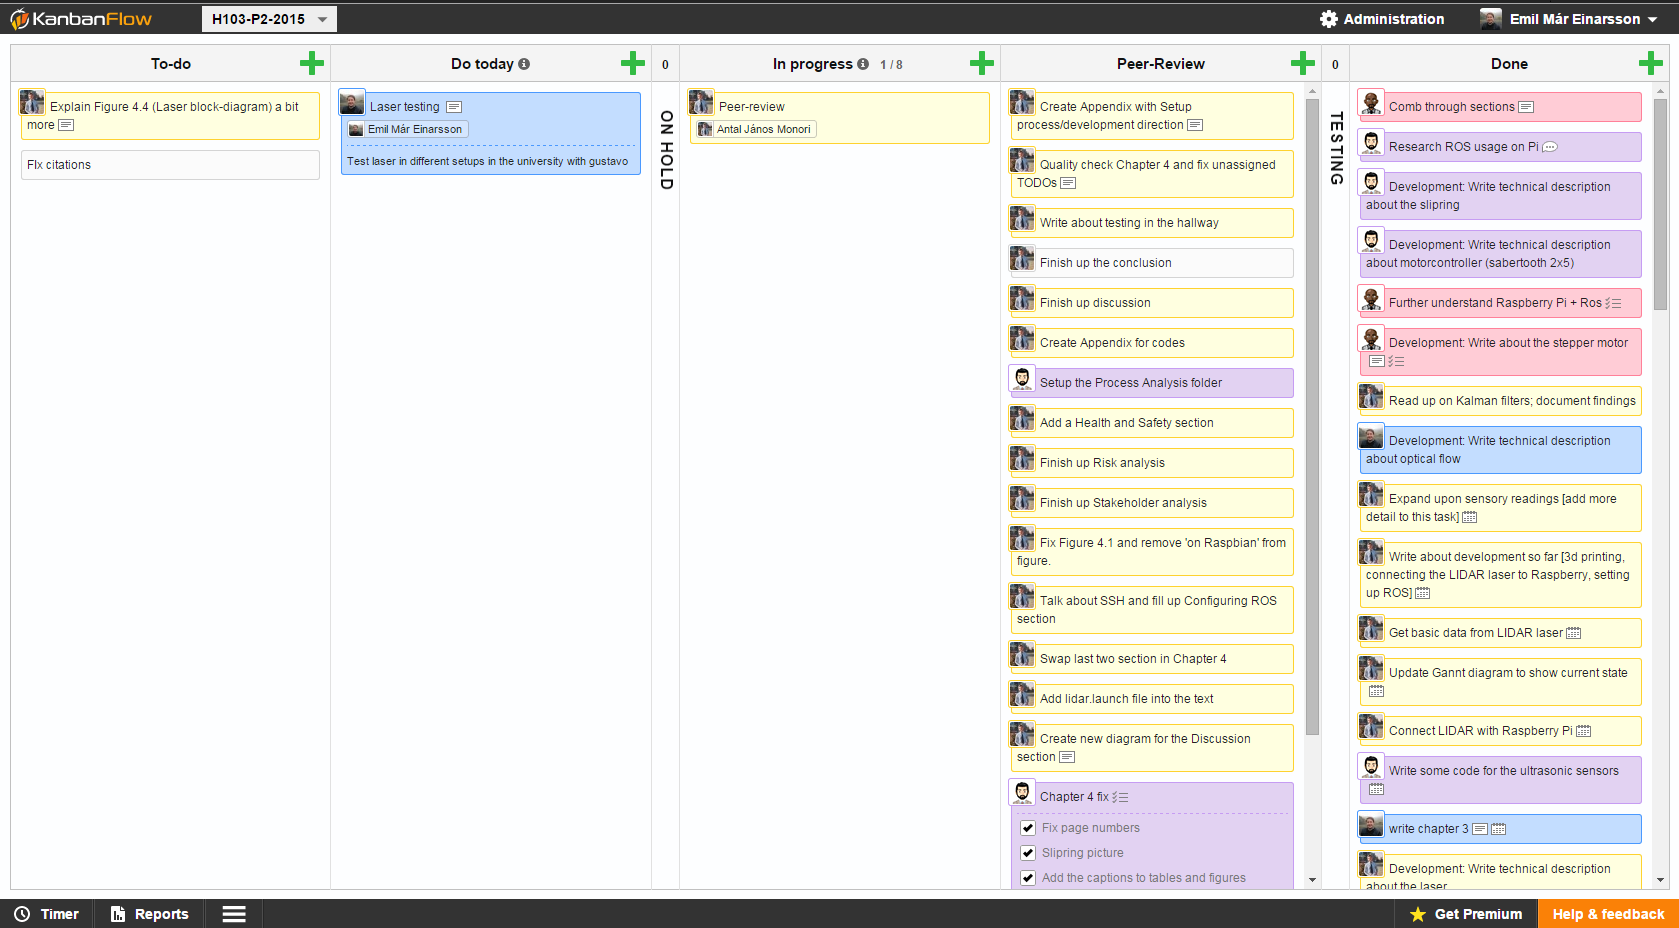
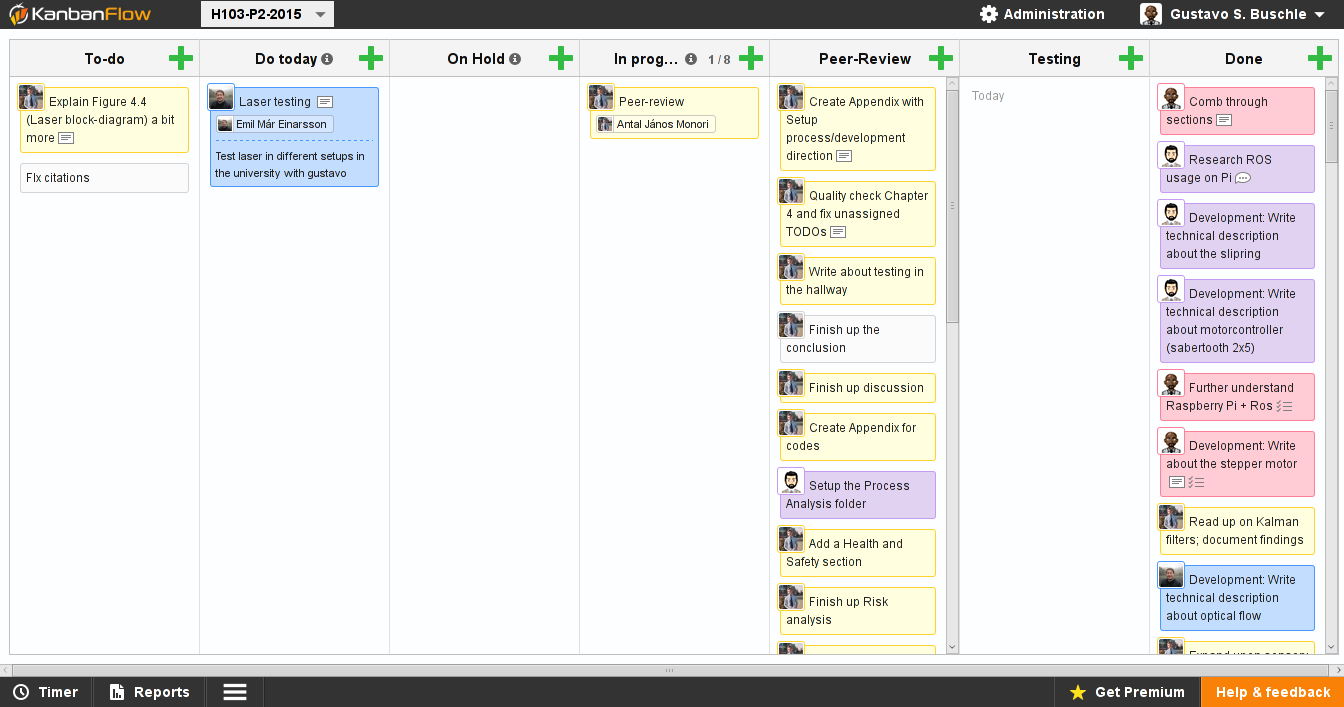
more or less finished time and resources

diff --git a/process-analysis/sections/time-and-resources.tex b/process-analysis/sections/time-and-resources.tex
@@ -1,19 +1,37 @@
-Given our large scope, getting a good overview of our time and resources was crucial. From the get-go we set up some milestones and the deadlines for completing them. We modeled our whole project around meeting milestones. We created a Gant diagram to visualize our milestones.
+Given our large scope, getting a good overview of our time and resources was crucial. From the get-go we set up some milestones and the deadlines for completing them. We modeled our whole project around meeting milestones. We created a Gantt-diagram to visualize our milestones.
 
 In order to make sure we were progressing towards each milestone in a timely manner, we set up various meetings which often had small deadlines attached to them. Each meeting usually lasted 1 hour, and consisted of each member talking about their progress with their specific task and whom should be responsible for new tasks.
 
-(Picture of fist gant)
+\begin{figure}[H]
+	\centering
+	\includegraphics[scale=.4]{images/gantt1.png}
+	\caption{}
+\end{figure}
 
 As we were recieving the parts we ordered we realise they wouldn't arrive in time for us to start development at the time we intended. We then reevaluated our milestones and came up with a revised gant diagram.
 
-(Picture of second gant)
+\begin{figure}[H]
+	\centering
+	\includegraphics[scale=.4]{images/gantt2.png}
+	\caption{}
+\end{figure}
 
 We choose to use an online Kanban board for the purpose of keeping track of tasks. We separated tasks in 7 columns, each depicting a stage in the progress of the task.
 
-(picture of kanbanflow)
+\begin{figure}[H]
+	\centering
+	\includegraphics[scale=.4]{images/kanban.png}
+	\caption{}
+\end{figure}
 
 In the first half of the project, classes had a big effect on how we scheduled meetings and set deadlines for both the big milestones and the smaller tasks. We avoided setting deadlines right after long school days. Because our scope was very large, we often used time allocated to exercises to work on our project instead.
 
+At the end of the project, we weren't satisfied with the state of our prototypes. Because of this, although officially we ended development, we kept trying to tweak the prototype in little ways.
+
 \section{Discussion and Conclusion}
 
-%We kept trying to fix things after development was over, which interferred with our testing.
+In terms of time and resource management, our biggest failing was our optimistic timeframe. We did not consider that the amount of time needed to learn the tools was so great. Our scope was too great, in the sense that we did not consider that we would need to spend so much time fixing errors.
+
+Despite our scope being too big, and us running into many more issues than we expected, we were still able to adjust our milestone deadlines, and scope, so that we could finish development with enough time for us to finish the rest of the report. Coming up with a second gantt-diagram was crucial, since if we had not done it, it would have been much harder for us to tell what we should adjust our scope to.
+
+Another big issue was that we waited too long to order parts, which meant that for around a third of our development, we had nothing to develop. Had we gotten the parts earlier, we might have realised that our scope was too big, and adjust it with much less backlash
